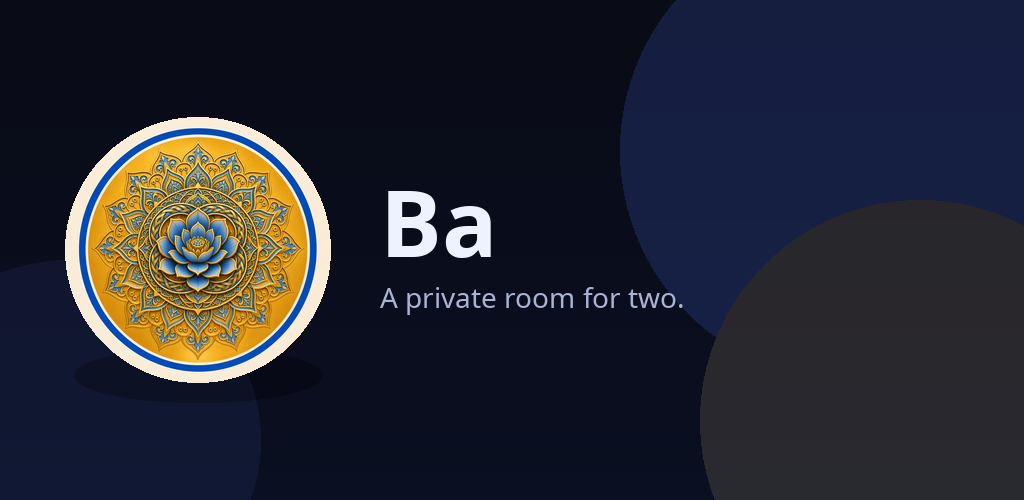
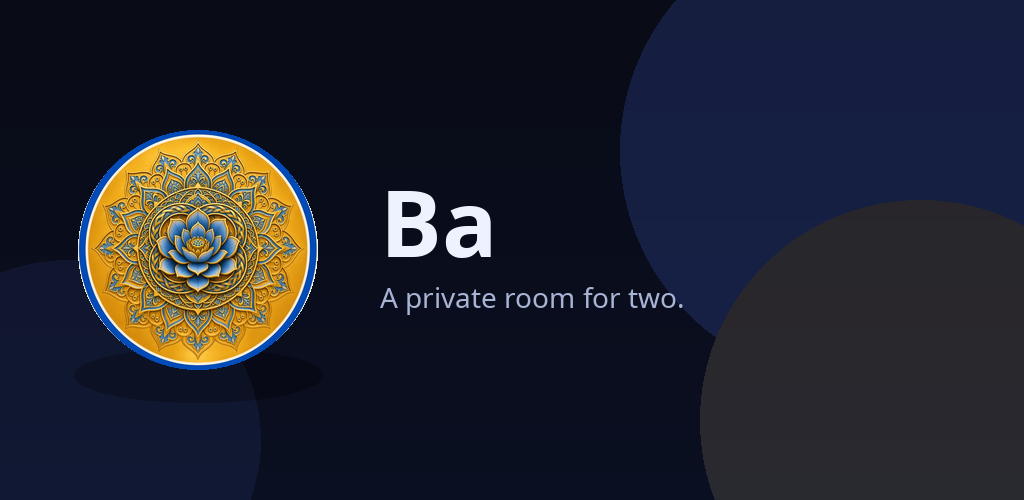
Crop the feature graphic medallion to the blue rim.
Removes the cream square fringe so the icon reads as a clean circle.

Changed region(s): [[0.0625, 0.21, 0.3438, 0.78]]

diff --git a/scripts/generate-play-assets.py b/scripts/generate-play-assets.py
@@ -96,8 +96,10 @@ def load_play_icon(size=None, circular=False):
 def circular_mask(img):
     """Keep the medallion disc; drop the square cream pad behind it."""
     w, h = img.size
+    # Icon sources keep ~5% cream margin outside the blue rim.
+    inset = max(2, int(min(w, h) * 0.055))
     mask = Image.new("L", (w, h), 0)
-    ImageDraw.Draw(mask).ellipse((1, 1, w - 2, h - 2), fill=255)
+    ImageDraw.Draw(mask).ellipse((inset, inset, w - 1 - inset, h - 1 - inset), fill=255)
     out = Image.new("RGBA", (w, h), (0, 0, 0, 0))
     out.paste(img, (0, 0), mask)
     return out
